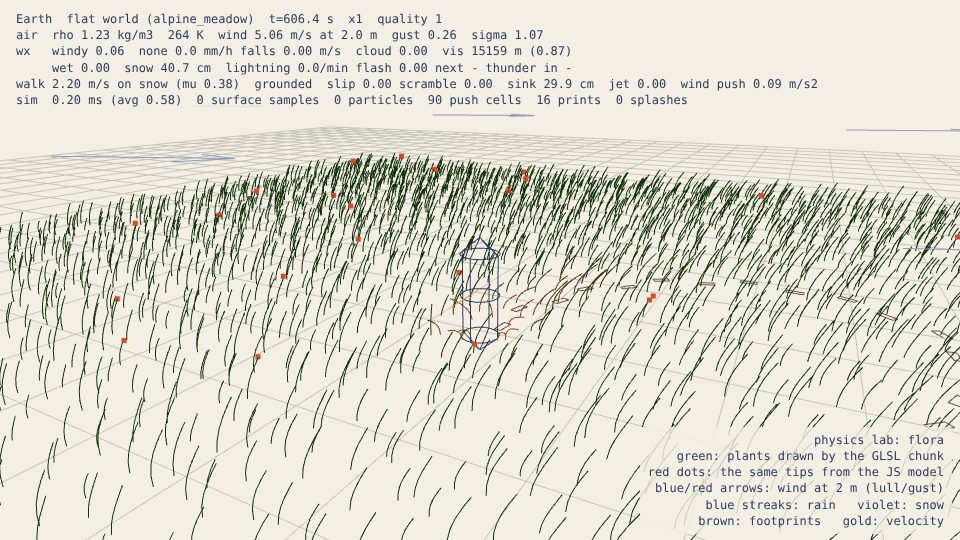
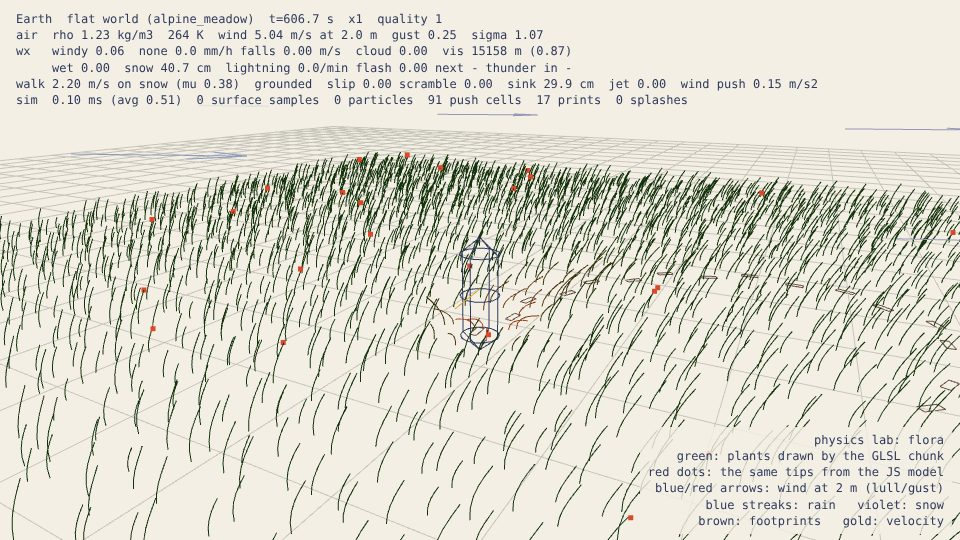
[physics] P1: allocation pass (seed keys, typed-array wind samples, inlined lattice hashes, reused disturbers), unknown liquid is not dry, robust worst-frame test, notes updated

diff --git a/src/physics/air.js b/src/physics/air.js
@@ -158,7 +158,10 @@ export class AirGrid {
     return u >= 0 && v >= 0 && u <= this.N - 1 && v <= this.N - 1;
   }
 
-  // Wind only (the per-frame hot path): fills o.we, o.wn, o.gust, o.I.
+  // Wind only (the per-frame hot path). Writes seven numbers into the typed array `o`:
+  //   [0] we, [1] wn (reference wind, frame axes), [2] gust (-1..1), [3] turbulence intensity,
+  //   [4..6] wind height factors at blade height, crown height and 2 m.
+  // (A typed array, not an object: storing a double in an object field can allocate.)
   sampleWind(x, z, o) {
     const N = this.N, T = this.terrain;
     let u = T.u(x), v = T.v(z);
@@ -167,20 +170,20 @@ export class AirGrid {
     if (i > N - 2) i = N - 2; if (j > N - 2) j = N - 2;
     const fu = u - i, fv = v - j, n = j * N + i;
     const w00 = (1 - fu) * (1 - fv), w10 = fu * (1 - fv), w01 = (1 - fu) * fv, w11 = fu * fv;
-    o.we = this.we[n] * w00 + this.we[n + 1] * w10 + this.we[n + N] * w01 + this.we[n + N + 1] * w11;
-    o.wn = this.wn[n] * w00 + this.wn[n + 1] * w10 + this.wn[n + N] * w01 + this.wn[n + N + 1] * w11;
-    o.gust = this.gust[n] * w00 + this.gust[n + 1] * w10 + this.gust[n + N] * w01 + this.gust[n + N + 1] * w11;
-    o.I = this.I[n] * w00 + this.I[n + 1] * w10 + this.I[n + N] * w01 + this.I[n + N + 1] * w11;
-    // height factors (blade height, crown height, 2 m) from the nodes whose ground is known
+    o[0] = this.we[n] * w00 + this.we[n + 1] * w10 + this.we[n + N] * w01 + this.we[n + N + 1] * w11;
+    o[1] = this.wn[n] * w00 + this.wn[n + 1] * w10 + this.wn[n + N] * w01 + this.wn[n + N + 1] * w11;
+    o[2] = this.gust[n] * w00 + this.gust[n + 1] * w10 + this.gust[n + N] * w01 + this.gust[n + N + 1] * w11;
+    o[3] = this.I[n] * w00 + this.I[n + 1] * w10 + this.I[n + N] * w01 + this.I[n + N + 1] * w11;
+    // height factors from the nodes whose ground is known
     const va = T.valid, c = T.cover;
     const v00 = w00 * va[n], v10 = w10 * va[n + 1], v01 = w01 * va[n + N], v11 = w11 * va[n + N + 1];
     const vs = v00 + v10 + v01 + v11;
     if (vs > 0.2) {
       const k = 1 / vs, a = n * CW + 8, b = a + CW, d = (n + N) * CW + 8, e = d + CW;
-      o.hfSoft = (c[a] * v00 + c[b] * v10 + c[d] * v01 + c[e] * v11) * k;
-      o.hfStiff = (c[a + 1] * v00 + c[b + 1] * v10 + c[d + 1] * v01 + c[e + 1] * v11) * k;
-      o.hf2 = (c[a + 2] * v00 + c[b + 2] * v10 + c[d + 2] * v01 + c[e + 2] * v11) * k;
-    } else { o.hfSoft = HF0[0]; o.hfStiff = HF0[1]; o.hf2 = HF0[2]; }
+      o[4] = (c[a] * v00 + c[b] * v10 + c[d] * v01 + c[e] * v11) * k;
+      o[5] = (c[a + 1] * v00 + c[b + 1] * v10 + c[d + 1] * v01 + c[e + 1] * v11) * k;
+      o[6] = (c[a + 2] * v00 + c[b + 2] * v10 + c[d + 2] * v01 + c[e + 2] * v11) * k;
+    } else { o[4] = HF0[0]; o[5] = HF0[1]; o[6] = HF0[2]; }
     return o;
   }
 

diff --git a/src/physics/util.js b/src/physics/util.js
@@ -50,11 +50,22 @@ export function noise3(x, y, z, seed) {
   fx = fx * fx * fx * (fx * (fx * 6 - 15) + 10);
   fy = fy * fy * fy * (fy * (fy * 6 - 15) + 10);
   fz = fz * fz * fz * (fz * (fz * 6 - 15) + 10);
-  const a = hash3(ix, iy, iz, seed), b = hash3(ix + 1, iy, iz, seed);
-  const c = hash3(ix, iy + 1, iz, seed), d = hash3(ix + 1, iy + 1, iz, seed);
-  const e = hash3(ix, iy, iz + 1, seed), f = hash3(ix + 1, iy, iz + 1, seed);
-  const g = hash3(ix, iy + 1, iz + 1, seed), h = hash3(ix + 1, iy + 1, iz + 1, seed);
-  const x0 = a + (b - a) * fx, x1 = c + (d - c) * fx, x2 = e + (f - e) * fx, x3 = g + (h - g) * fx;
+  // The eight lattice hashes are written out in place (the same arithmetic as hash3): a call
+  // that returns a double can allocate, and this function runs thousands of times a frame.
+  const xa = Math.imul(ix | 0, 374761393), xb = Math.imul((ix + 1) | 0, 374761393);
+  const ya = Math.imul(iy | 0, 668265263), yb = Math.imul((iy + 1) | 0, 668265263);
+  const za = Math.imul(iz | 0, 2147483647) ^ Math.imul(seed | 0, 1274126177), zb = Math.imul((iz + 1) | 0, 2147483647) ^ Math.imul(seed | 0, 1274126177);
+  const K = 2.3283064365386963e-10;          // 1 / 2^32
+  let h;
+  h = xa ^ ya ^ za; h = Math.imul(h ^ (h >>> 13), 1274126177); h ^= h >>> 16; const a = (h >>> 0) * K;
+  h = xb ^ ya ^ za; h = Math.imul(h ^ (h >>> 13), 1274126177); h ^= h >>> 16; const b = (h >>> 0) * K;
+  h = xa ^ yb ^ za; h = Math.imul(h ^ (h >>> 13), 1274126177); h ^= h >>> 16; const c = (h >>> 0) * K;
+  h = xb ^ yb ^ za; h = Math.imul(h ^ (h >>> 13), 1274126177); h ^= h >>> 16; const d = (h >>> 0) * K;
+  h = xa ^ ya ^ zb; h = Math.imul(h ^ (h >>> 13), 1274126177); h ^= h >>> 16; const e = (h >>> 0) * K;
+  h = xb ^ ya ^ zb; h = Math.imul(h ^ (h >>> 13), 1274126177); h ^= h >>> 16; const f = (h >>> 0) * K;
+  h = xa ^ yb ^ zb; h = Math.imul(h ^ (h >>> 13), 1274126177); h ^= h >>> 16; const g = (h >>> 0) * K;
+  h = xb ^ yb ^ zb; h = Math.imul(h ^ (h >>> 13), 1274126177); h ^= h >>> 16; const hh = (h >>> 0) * K;
+  const x0 = a + (b - a) * fx, x1 = c + (d - c) * fx, x2 = e + (f - e) * fx, x3 = g + (hh - g) * fx;
   const y0 = x0 + (x1 - x0) * fy, y1 = x2 + (x3 - x2) * fy;
   return (y0 + (y1 - y0) * fz) * 2 - 1;
 }

diff --git a/src/physics/index.js b/src/physics/index.js
@@ -281,17 +281,25 @@ export function createPhysics({ sampleSurface, seed = DEFAULT_SEED, timeBudget =
     return env;
   }
 
-  // Disturbers for physics.update from PILOT's states (reuses the objects in `out`).
+  // Disturbers for physics.update from PILOT's states. Appends to `out` (clear it each frame with
+  // out.length = 0); the entries are four objects owned by physics and reused, so nothing is
+  // allocated per frame.
+  const _dEx = { kind: 'explorer', p: null, v: null, radius: EXPLORER_BODY.radius, strength: 1, grounded: true };
+  const _dJet = { kind: 'jet', p: null, v: null, radius: 0.15, strength: 0 };
+  const _dShip = { kind: 'ship', p: null, v: null, radius: 4.2, strength: 1 };
+  const _dWash = { kind: 'downwash', p: null, v: null, radius: 2.2, strength: 0 };
   function explorerDisturbers(st, out = []) {
     const B = st.phys;
-    out.push({ kind: 'explorer', p: st.p, v: st.v, radius: EXPLORER_BODY.radius, strength: 1, grounded: !!st.grounded });
-    if (B && B.jetThrottle > 0.02) out.push({ kind: 'jet', p: st.p, v: st.v, radius: 0.15, strength: EXPLORER_BODY.jetThrust * B.jetThrottle });
+    _dEx.p = st.p; _dEx.v = st.v; _dEx.grounded = !!st.grounded;
+    out.push(_dEx);
+    if (B && B.jetThrottle > 0.02) { _dJet.p = st.p; _dJet.v = st.v; _dJet.strength = EXPLORER_BODY.jetThrust * B.jetThrottle; out.push(_dJet); }
     return out;
   }
   function shipDisturbers(st, out = []) {
     const B = st.phys;
-    out.push({ kind: 'ship', p: st.p, v: st.v, radius: 4.2, strength: 1 });
-    if (B && B.downwash.thrust > 50) out.push({ kind: 'downwash', p: st.p, v: st.v, radius: B.downwash.radius, strength: B.downwash.thrust });
+    _dShip.p = st.p; _dShip.v = st.v;
+    out.push(_dShip);
+    if (B && B.downwash && B.downwash.thrust > 50) { _dWash.p = st.p; _dWash.v = st.v; _dWash.radius = B.downwash.radius; _dWash.strength = B.downwash.thrust; out.push(_dWash); }
     return out;
   }
 

diff --git a/src/physics/flora.js b/src/physics/flora.js
@@ -52,7 +52,7 @@ export const FLORA = Object.freeze({
   jetSpread: 0.25,              // jet footprint radius grows by this x height above the ground
 });
 
-const _s = {};
+const _s = new Float64Array(7);
 const _coef = new Float64Array(8);
 const _tmp2 = new Float64Array(2);
 
@@ -168,10 +168,10 @@ export class FloraField {
         const x = (this.ci + i - N / 2 + 0.5) * cell;
         air.sampleWind(x, z, _s);
         const n = j * N + i, o = n * 4;
-        const we = _s.we, wn = _s.wn;
-        const sp = Math.hypot(we, wn);
+        const we = _s[0], wn = _s[1], hs = _s[4], ht = _s[5], h2 = _s[6];
+        const sp = Math.sqrt(we * we + wn * wn);
         // load = q / qRef along the wind, at the height each class lives at
-        const ls = kq * sp * _s.hfSoft * _s.hfSoft, lt = kq * sp * _s.hfStiff * _s.hfStiff;
+        const ls = kq * sp * hs * hs, lt = kq * sp * ht * ht;
         const tse = we * ls, tsn = wn * ls, tte = we * lt, ttn = wn * lt;
         let d = bend[o] - tse, v = vel[o];
         bend[o] = tse + a11 * d + a12 * v; vel[o] = a21 * d + a22 * v;
@@ -181,10 +181,11 @@ export class FloraField {
         bend[o + 2] = tte + b11 * d + b12 * v; vel[o + 2] = b21 * d + b22 * v;
         d = bend[o + 3] - ttn; v = vel[o + 3];
         bend[o + 3] = ttn + b11 * d + b12 * v; vel[o + 3] = b21 * d + b22 * v;
-        wind[o] = we * _s.hf2; wind[o + 1] = wn * _s.hf2;
-        wind[o + 2] = clamp01(0.5 + 0.5 * _s.gust);
-        wind[o + 3] = _s.I * sp * _s.hf2;
-        gsum += wind[o + 2]; se += we * _s.hfSoft; sn += wn * _s.hfSoft;
+        wind[o] = we * h2; wind[o + 1] = wn * h2;
+        const g01 = 0.5 + 0.5 * _s[2];
+        wind[o + 2] = g01 < 0 ? 0 : g01 > 1 ? 1 : g01;
+        wind[o + 3] = _s[3] * sp * h2;
+        gsum += wind[o + 2]; se += we * hs; sn += wn * hs;
       }
     }
     // ---- travelling waves ------------------------------------------------------------------------

diff --git a/src/physics/particles.js b/src/physics/particles.js
@@ -47,7 +47,7 @@ function makeBuffer(cap) {
   };
 }
 
-const _w = {};
+const _w = new Float64Array(7);
 
 export class Particles {
   constructor(seed, quality = 1) {
@@ -121,11 +121,16 @@ export class Particles {
     const wp = this._wp;
     for (let j = 0; j < 4; j++) for (let i = 0; i < 4; i++) {
       air.sampleWind(fx + (i - 1.5) * 16, fz + (j - 1.5) * 16, _w);
-      const o = (j * 4 + i) * 3; wp[o] = _w.we; wp[o + 1] = _w.wn; wp[o + 2] = _w.gust;
+      const o = (j * 4 + i) * 3; wp[o] = _w[0]; wp[o + 1] = _w[1]; wp[o + 2] = _w[2];
     }
     for (let k = 0; k < 25; k++) this._hfl[k] = heightFactor(k, cover.z0 || 0.03, cover.canopyHeight || 0, cover.canopy01 || 0);
+    // liquid level at the focus: what an unsampled spot is assumed to be until its node arrives
+    let liquid0 = near ? near.liquidAt(fx, fz) : NaN;
+    if (liquid0 !== liquid0) liquid0 = air.terrain.liquidAt(fx, fz);
+    if (liquid0 !== liquid0) liquid0 = -1e9;
 
-    for (const name of ['rain', 'snow']) {
+    for (let kk = 0; kk < 2; kk++) {
+      const name = kk === 0 ? 'rain' : 'snow';
       const b = this.buffers[name];
       b.origin.x = frame.ox; b.origin.y = frame.oy; b.origin.z = frame.oz;
       const cap = PARTICLES.capacity[name][this.quality];
@@ -182,7 +187,9 @@ export class Particles {
         if (y < ground + 6) {
           gy = near ? near.heightAt(x, z, NaN) : NaN;
           if (gy !== gy) gy = air.terrain.heightAt(x, z, ground);
-          const lq = near ? near.liquidAt(x, z) : -1e9;
+          let lq = near ? near.liquidAt(x, z) : NaN;
+          if (lq !== lq) lq = air.terrain.liquidAt(x, z);
+          if (lq !== lq) lq = liquid0;
           if (lq > gy) { gy = lq; wet = true; }
           hit = y <= gy;
         }

diff --git a/src/physics/near.js b/src/physics/near.js
@@ -183,13 +183,14 @@ export class TerrainGrid {
     return (this.h[n] * w00 + this.h[n + 1] * w10 + this.h[n + N] * w01 + this.h[n + N + 1] * w11) / ws;
   }
 
-  // Liquid surface (radius - r0) at (x, z), or -1e9 where the nearest node is dry.
+  // Liquid surface (radius - r0) at (x, z): -1e9 where the nearest node is dry, NaN where it is
+  // outside the grid or not sampled yet (unknown is not the same as dry).
   liquidAt(x, z) {
     const N = this.N;
     const i = Math.round(this.u(x)), j = Math.round(this.v(z));
-    if (i < 0 || j < 0 || i > N - 1 || j > N - 1) return -1e9;
+    if (i < 0 || j < 0 || i > N - 1 || j > N - 1) return NaN;
     const n = j * N + i;
-    return this.valid[n] ? this.lq[n] : -1e9;
+    return this.valid[n] ? this.lq[n] : NaN;
   }
 
   // Nearest valid node index to (x, z), or -1.

diff --git a/src/physics/wind.js b/src/physics/wind.js
@@ -61,10 +61,14 @@ export const WIND = Object.freeze({
   minFactor: 0.25,        // a lull never drops below this fraction of the mean
 });
 
+// (the last lookup is remembered: building a string key on every call would allocate)
 const seeds = {};
+let _sb = null, _ss = NaN, _sv = 0;
 function seedOf(bodyId, seed) {
+  if (bodyId === _sb && seed === _ss) return _sv;
   const k = bodyId + ':' + seed;
-  return seeds[k] || (seeds[k] = hashString('wind-' + k) | 0);
+  _sb = bodyId; _ss = seed;
+  return (_sv = seeds[k] || (seeds[k] = hashString('wind-' + k) | 0));
 }
 
 // Zonal (east) and meridional (north) prevailing wind at sin(latitude) = sy. o[0] = east, o[1] = north.

diff --git a/src/physics/weather.js b/src/physics/weather.js
@@ -88,10 +88,14 @@ for (const id in REGIMES) {
 // (weather.test.mjs checks it). Change it only together with that test.
 export const DEFAULT_SEED = 14;
 
+// (the last lookup is remembered: building a string key on every call would allocate)
 const seedCache = {};
+let _sb = null, _ss = NaN, _sv = 0;
 function seedFor(bodyId, seed) {
+  if (bodyId === _sb && seed === _ss) return _sv;
   const k = bodyId + ':' + seed;
-  return seedCache[k] || (seedCache[k] = hashString('weather-' + k) | 0);
+  _sb = bodyId; _ss = seed;
+  return (_sv = seedCache[k] || (seedCache[k] = hashString('weather-' + k) | 0));
 }
 
 const _pv = new Float64Array(2);

diff --git a/docs/notes/physics.md b/docs/notes/physics.md
@@ -124,7 +124,7 @@ holdAngle, iceFriction, treeFrequency, stemFrequency, PlantSim}`.
 
 ## Status
 
-INTEGRATION: ready (commit `af0783c`). The API above is stable; changes from here are additive.
+INTEGRATION: ready (commit `af0783c` or later). The API above is stable; changes from here are additive.
 
 Stage P1 (foundations) is done:
 
@@ -156,11 +156,19 @@ Stage P1 (foundations) is done:
   sleep at 60 and 20 Hz on level and sloping ground, rebounds that only shrink, pulse S-curve);
   the oscillator (exact at any step, never gains energy); the flora field; particles; footprints;
   the facade (shape, all ten bodies, determinism, budget, re-anchoring, deep space, NaN).
-- Timing (Node 22, this sandbox, 4 shared cores): `physics.update` at quality 1
-  **0.21 ms mean / 0.30 ms p95 walking; 0.34 / 0.52 ms at 46 m/s; 0.37 / 0.70 ms at 160 m/s**
-  on PILOT's stub; **0.20 ms mean on PAINTER's real Earth**. Worst frame in the first 5 s
-  after `warmUp()`: 0.45 ms. Without `warmUp()` the very first frames cost 5-10 ms (engine
-  compile); that is the 6.8 ms frame the lead measured.
+- Timing (Node 22, this sandbox, 4 cores shared with the other two workers): `physics.update`
+  at quality 1 **0.20 ms mean / 0.24 ms p95 walking; 0.31 / 0.80 ms at 46 m/s; 0.38 / 0.70 ms
+  at 160 m/s** on PILOT's stub; **0.17 ms mean on PAINTER's real Earth**.
+  Worst frame: the test repeats a 300-frame run four times after `warmUp()` and gives each
+  frame its best time; the worst of those is **0.22 ms**. Single measurements of 20-35 ms do
+  occur on this loaded machine about once in 1200 frames; they never recur at the same frame,
+  and a `--trace-gc` run shows only minor collections (0.2-0.4 ms, about one every 14 frames),
+  so they are the scheduler, not physics. Without `warmUp()` the first frames cost 5-10 ms
+  (engine compile plus a burst of surface samples): that is the 6.8 ms frame the lead measured.
+- Allocation: no objects or arrays are created per frame. About 100 kB of short-lived boxed
+  numbers per frame remain (doubles returned from calls the engine does not inline); the three
+  worst sources (string seed keys, object-field outputs in the 1024-cell loop, hash calls
+  inside the noise) were removed in this stage.
 - `physics-lab.html` in headless Chromium, no console errors in any scene. Evidence in
   `docs/shots/physics/`: `meadow-gale-walk.jpg` (grass bent by wind, parted by the explorer,
   footprints in snow), `meadow-jetpack.jpg` (plume blowing grass radially), `rain-earth.jpg`,
